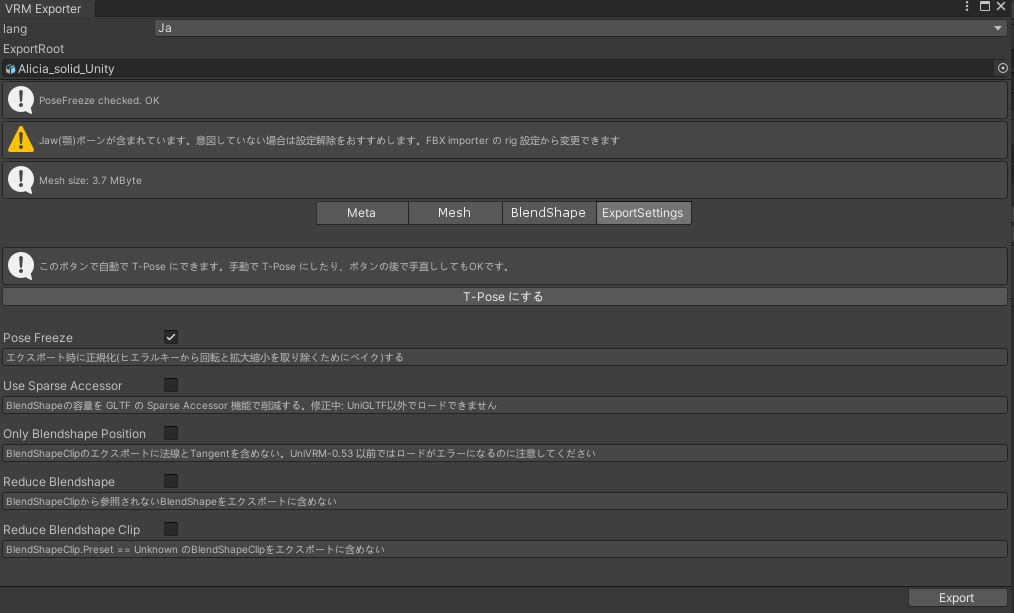
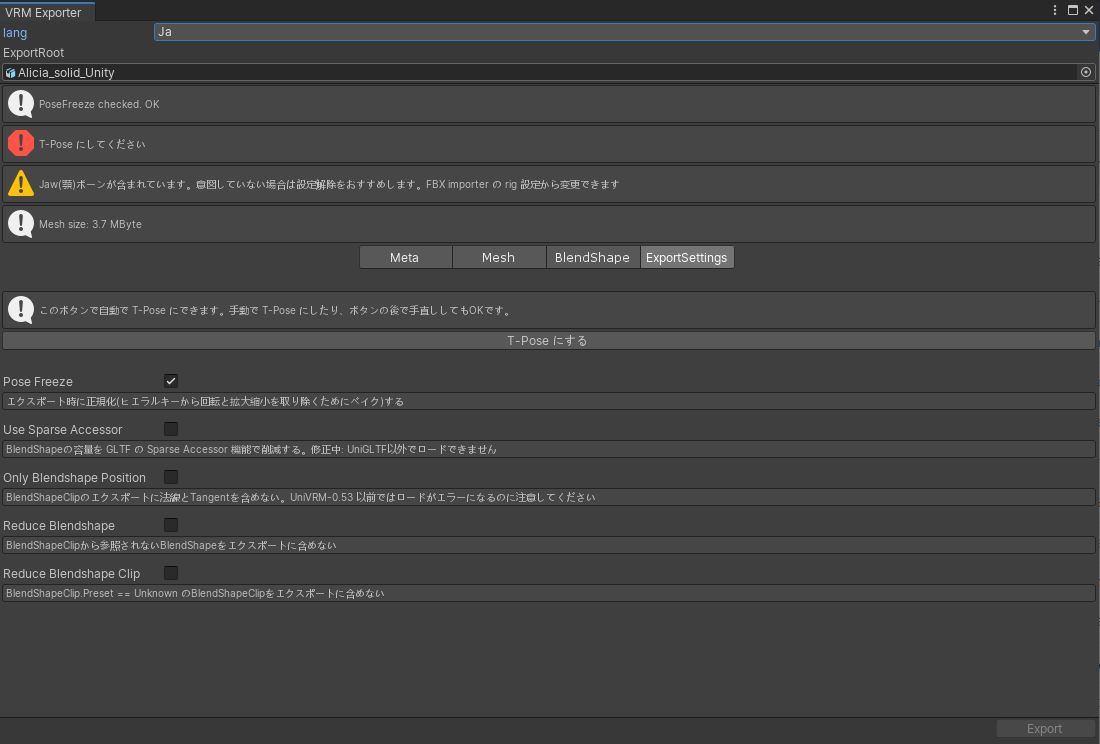
updated contents

diff --git a/content/en/docs/vrm/how_to_make_vrm/_index.md b/content/en/docs/vrm/how_to_make_vrm/_index.md
@@ -5,14 +5,14 @@ weight: 2
 aliases: ["/en/docs/univrm/univrm_workflow/"]
 ---
 
-A VRM file can be made by [UniVRM](https://github.com/vrm-c/UniVRM), which is a standard implementation of VRM in [Unity](https://unity3d.com/). 
-Before we dive into the details, let's take a look at 4 core steps for making a VRM file:
+We use [UniVRM](https://github.com/vrm-c/UniVRM) to make VRM files.
+The workflow of making a VRM file is summarized as follows:
 
-1. Import a 3D model and [UniVRM](https://github.com/vrm-c/UniVRM) into a Unity project. Set up/adjust the model's materials, etc. 
-1. Export the 3D model as VRM in Unity (Model Normalization)
-1. Import the VRM file into the Unity project and customize the settings such as [license]({{< relref "univrm_meta.md" >}}), [spring bone]({{< relref "univrm_secondary.md" >}}), [expression]({{< relref "univrm_blendshape.md" >}}), [eyelook]({{< relref "univrm_lookat.md" >}}), [first-person]({{< relref "univrm_firstperson.md" >}})
+1. Import a 3D model into a Unity project and set up its materials, etc.
+1. Make a T-Pose for the model and enable the model normalization, and then export the 3D model as VRM in Unity
+1. Import the VRM file into the Unity project and customize settings such as [license]({{< relref "univrm_meta.md" >}}), [spring bone]({{< relref "univrm_secondary.md" >}}), [expression]({{< relref "univrm_blendshape.md" >}}), [eyelook]({{< relref "univrm_lookat.md" >}}), [first-person]({{< relref "univrm_firstperson.md" >}})
      * To make sure customized settings (e.g. facial expression) are working, check your model in play mode
-1. Export the 3D model as VRM again. Setup completed.
+1. Export the 3D model as VRM again. Setup completed
 
 | {{< img src="images/vrm/VRM_changeVRM_EN.png" alt="vrm workflow" >}}  |
 |-----------------------------------------------------------------------|
